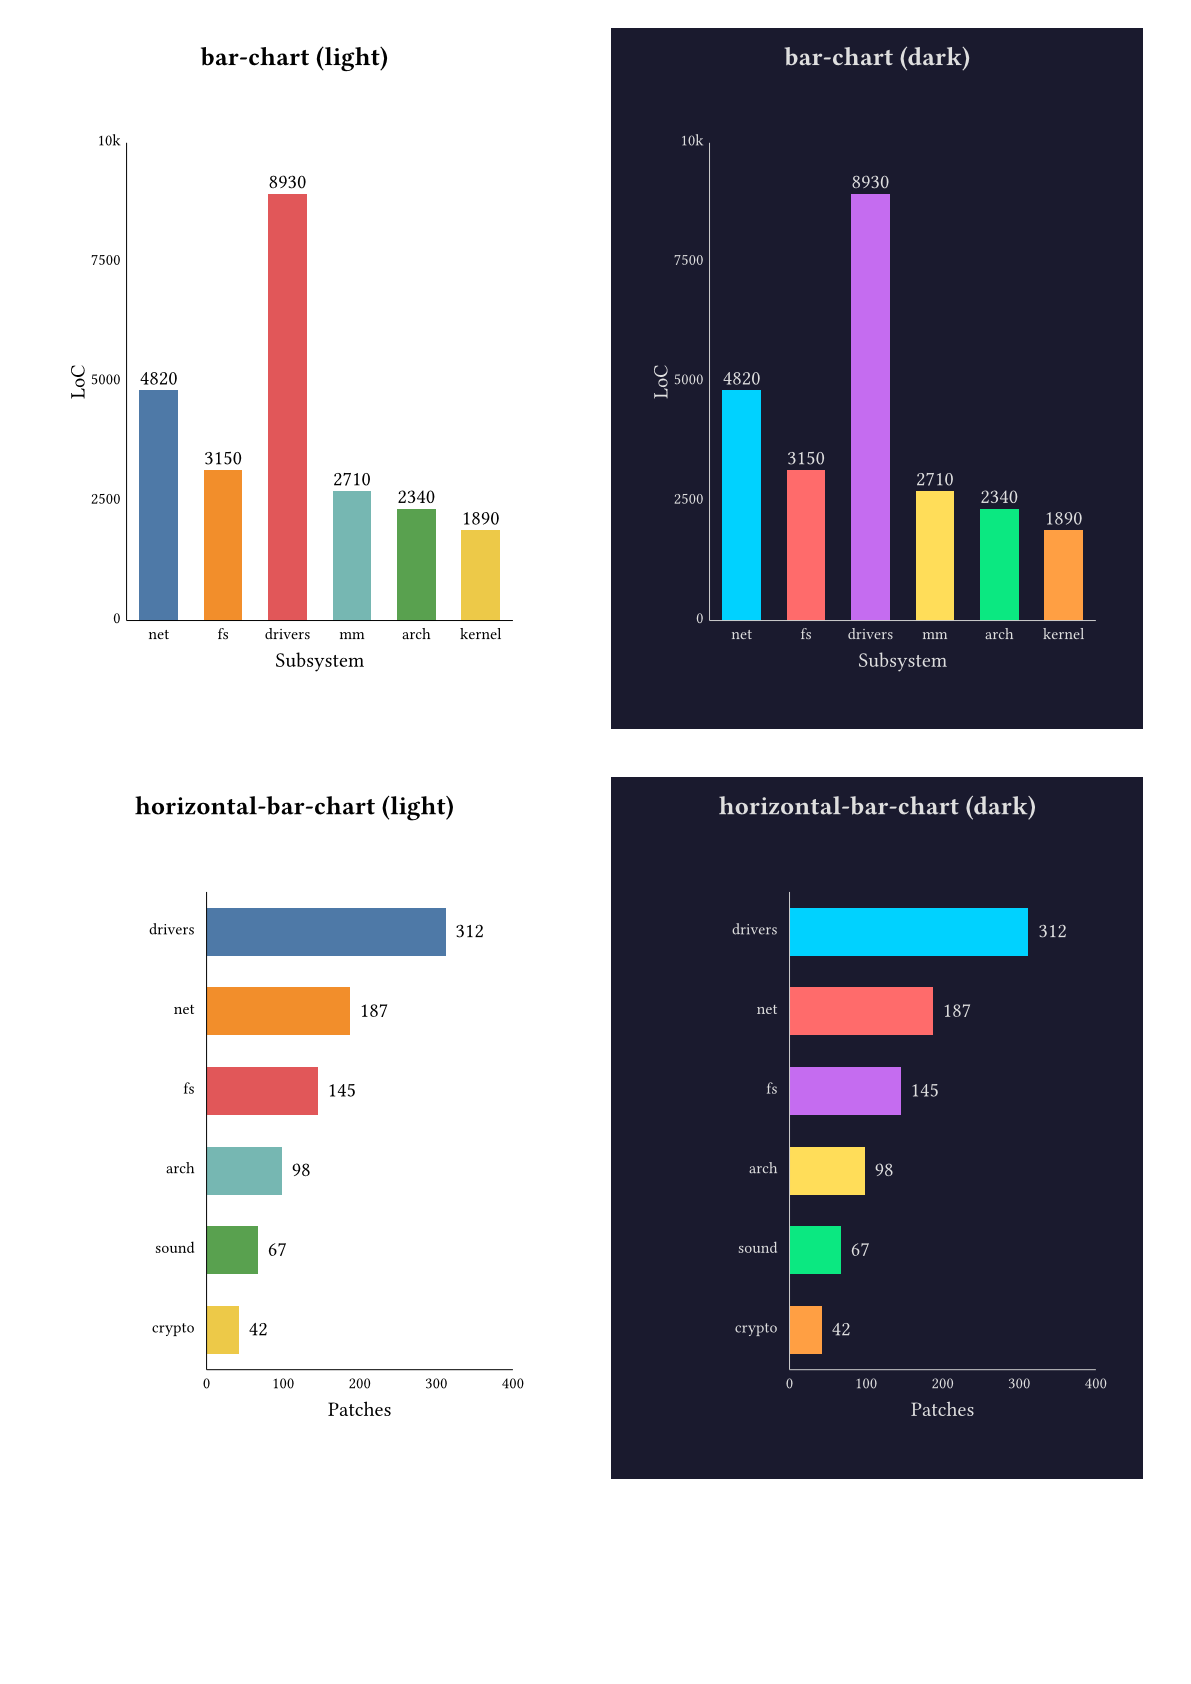
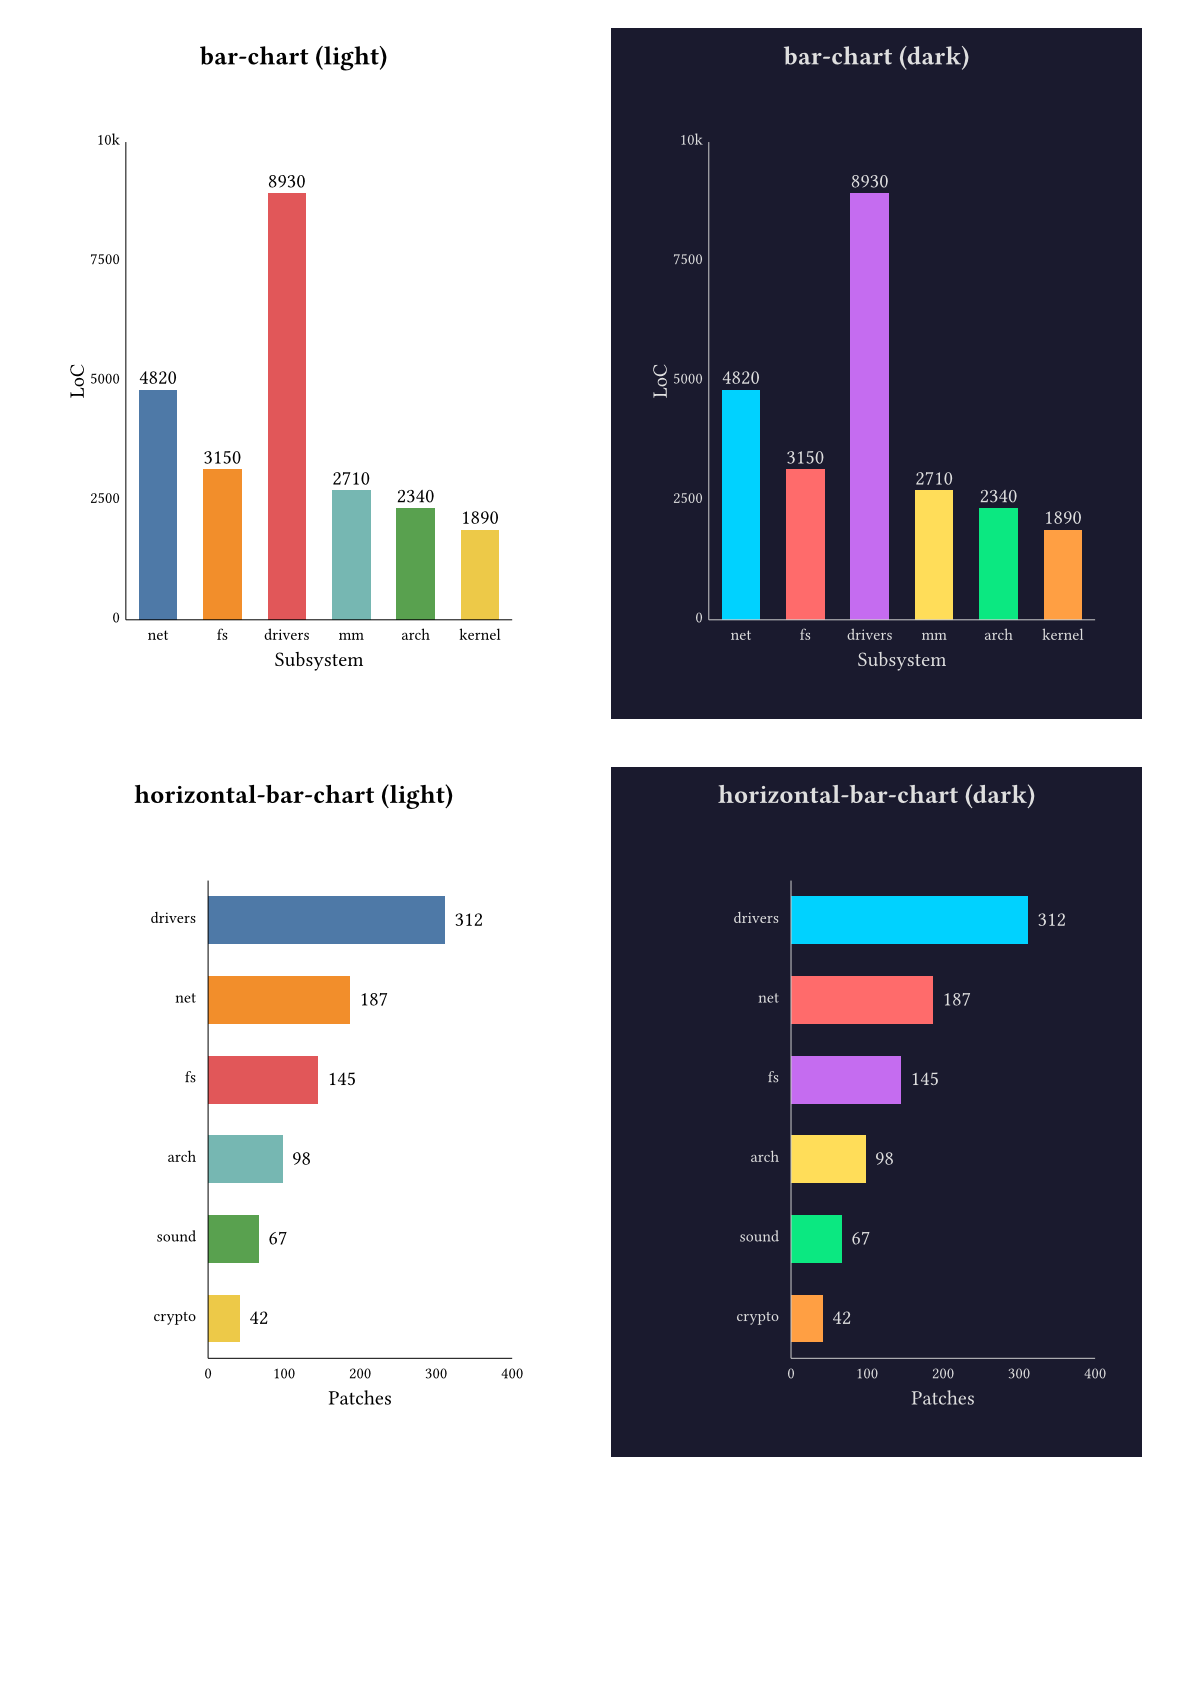
feat: φ-scaling system — two seeds control all chart dimensions
Introduce base-size and base-gap seed parameters that derive all theme
values through golden-ratio proportions. Charts with width/height auto
now self-size from data count and seeds. Adds 11 new seed-derived theme
keys (cell-size, container-inset, stroke-thin/mid/thick/heavy, etc.).

Updated bar, line, and heatmap charts plus primitives (axes, container,
sizing). New demo-scaling example and updated showcase scaling page.
Fixed screenshot regeneration to clean before rebuild (PNG doubling fix).

diff --git a/README.md b/README.md
@@ -11,14 +11,16 @@ A charting library for [Typst](https://github.com/typst/typst) built entirely wi
 
 All 50+ chart types across 8 pages — see [`examples/showcase.typ`](examples/showcase.typ) for the source:
 
-![Showcase Page 1](screenshots/showcase/showcase-1.png)
-![Showcase Page 2](screenshots/showcase/showcase-2.png)
-![Showcase Page 3](screenshots/showcase/showcase-3.png)
-![Showcase Page 4](screenshots/showcase/showcase-4.png)
-![Showcase Page 5](screenshots/showcase/showcase-5.png)
-![Showcase Page 6](screenshots/showcase/showcase-6.png)
-![Showcase Page 7](screenshots/showcase/showcase-7.png)
-![Showcase Page 8](screenshots/showcase/showcase-8.png)
+![Showcase Page 1](screenshots/showcase/showcase-01.png)
+![Showcase Page 2](screenshots/showcase/showcase-02.png)
+![Showcase Page 3](screenshots/showcase/showcase-03.png)
+![Showcase Page 4](screenshots/showcase/showcase-04.png)
+![Showcase Page 5](screenshots/showcase/showcase-05.png)
+![Showcase Page 6](screenshots/showcase/showcase-06.png)
+![Showcase Page 7](screenshots/showcase/showcase-07.png)
+![Showcase Page 8](screenshots/showcase/showcase-08.png)
+![Showcase Page 9](screenshots/showcase/showcase-09.png)
+![Showcase Page 10](screenshots/showcase/showcase-10.png)
 
 ## Examples
 
